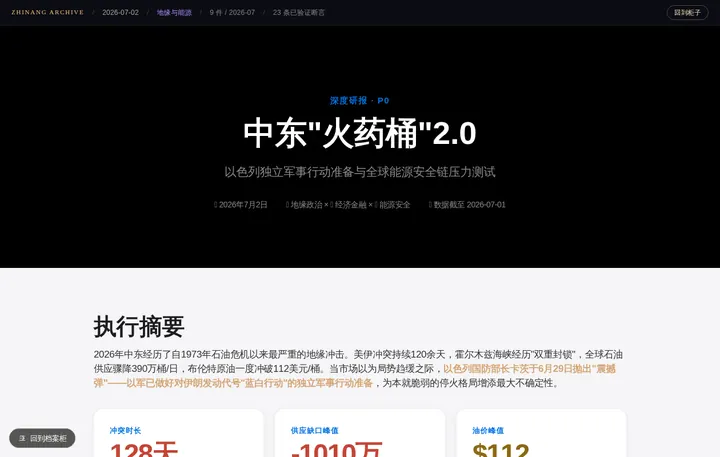
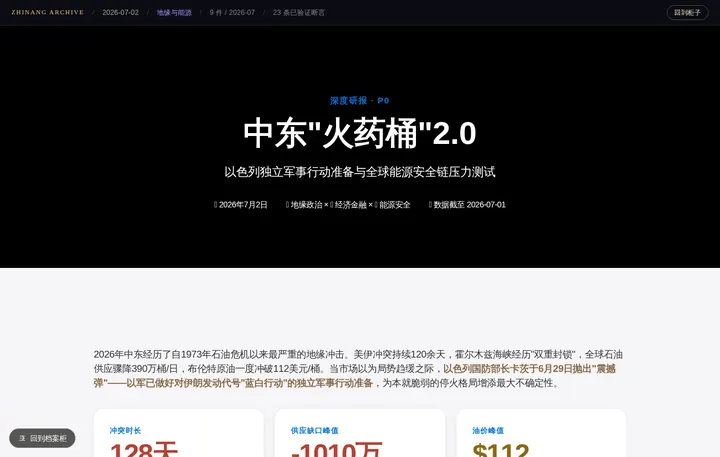
fix: 对比度修复工具的两个「把自己写坏」缺陷（均由棘轮当场抓到）
一、终局闸门形同虚设（最严重）
工具只在轮与轮之间比较，从不与**文件原始状态**比：
多轮各自「持平」，累加后落在比原始更差的终点。
实测 ai-agent-orchestration-wars 119 → 373 条（+254），另 6 件合计 +197。
处置：加「终局 vs 原始」闸门 —— 更差则整件回退。7 件已回退。

二、终局复验超时 ⇒ 闸门被跳过 ⇒ 坏状态直接落盘
大文件上 final detect 超时 → final=None → 闸门整段跳过 → 写盘。
棘轮随后抓到 low-contrast +23（middle-east-powder-keg-2）。
处置：① 复验拿不到结果就不许写盘（「没验过」不等于「通过」）
      ② 该件已回退，棘轮复验回到 4799 → 4799，无一规则上升。

三、改写策略：全局字面量替换 → 规则级定位
全局替换的根因：同一颜色常被用在多种背景上（浅底正文 + 深底强调），
全局改色会把另一半改坏。
处置：先按规则定位（只改「同规则内既有该文字色、又有匹配背景」的那些），
定位不到（背景在祖先规则里）再退回全局替换 —— 此时有终局闸门兜底。

四、本轮修复成果
- add_backlink.py 返回栏 .sb-cnt .44 → .48（4.36:1 → 5.01:1），
  经守护进程重新注入，一次修 208 件
- 9 件正文对比度（最差件 89 → 45 条 low-contrast）
- 基线：low-contrast 2961 → 2848；总量 4907 → 4799

验收：audit_pages 115 件 0 问题 · build_manifest --check 一致 ·
autopublish 十项硬校验全过 · 棘轮 ✓ 通过（无一规则上升）。

diff --git a/tools/fix_contrast.py b/tools/fix_contrast.py
@@ -119,7 +119,7 @@ def detect(path):
         return None
     cmd = [launcher, 'detect', path, '--json']
     try:
-        p = subprocess.run(cmd, cwd=ROOT, capture_output=True, text=True, timeout=600)
+        p = subprocess.run(cmd, cwd=ROOT, capture_output=True, text=True, timeout=900)
     except subprocess.TimeoutExpired:
         return None
     raw = p.stdout.strip()
@@ -191,7 +191,41 @@ def fix_white_rules(html, bg_hex, new_color):
     return RULE_RE.sub(do_block, html)
 
 
-def fix_one(path, dry=False, rounds=5):
+
+def _near(a, b):
+    """两个颜色是否足够接近（用来匹配同一背景色）。"""
+    try:
+        ca, cb = hex_to_rgb(a), hex_to_rgb(b)
+    except Exception:
+        return False
+    return sum(abs(x - y) for x, y in zip(ca, cb)) < 45
+
+
+def fix_rules_for_color(html, color, bg, new_color):
+    """**只改规则级**：在 <style> 内找「同一条规则里既声明了该文字色、又声明了
+    匹配背景色」的规则，改那一处的 color。
+
+    为什么不用全局字面量替换：同一颜色常被用在多种背景上（浅底上的正文 +
+    深底上的强调），全局改色会把另一半改坏 —— 实测 ai-agent-orchestration-wars
+    因此从 119 条涨到 373 条。规则级改写只碰「确实压在这个背景上」的那一条。
+    """
+    def do_block(m):
+        sel, body = m.group(1), m.group(2)
+        if not re.search(r'color\s*:\s*' + re.escape(color) + r'\b', body, re.I):
+            return m.group(0)
+        bgs = re.findall(r'background(?:-color)?\s*:\s*(#[0-9a-fA-F]{3,6})', body)
+        if not bgs or not any(_near(b, bg) for b in bgs):
+            return m.group(0)          # 背景不在本规则内 → 不动（宁可留残余）
+        nb = re.sub(r'(color\s*:\s*)' + re.escape(color),
+                    r'\g<1>' + new_color, body, count=1, flags=re.I)
+        return sel + '{' + nb + '}'
+
+    def do_style(m):
+        return m.group(0)[:m.group(0).index('>') + 1] + RULE_RE.sub(do_block, m.group(1)) + '</style>'
+
+    return re.sub(r'<style[^>]*>(.*?)</style>', do_style, html, flags=re.S)
+
+def fix_one(path, dry=False, rounds=3):
     full = os.path.join(ROOT, path)
     if not os.path.exists(full):
         return {'path': path, 'error': '文件不存在'}
@@ -244,12 +278,25 @@ def fix_one(path, dry=False, rounds=5):
             break
         changed = False
         for old, new in mapping.items():
-            if is_light(old):
-                continue                      # 白色/浅色文字走规则定位
+            # 逐个背景做规则级改写：一个颜色可能压多种背景，逐背景分别定位
+            hit = False
+            for bg in {x['bg'] for x in lcs if x['text'] == old}:
+                html2 = fix_rules_for_color(html, old, bg, new)
+                if html2 != html:
+                    html = html2
+                    hit = True
+            if hit:
+                applied.append({'from': old, 'to': new, 'count': 'rule-scoped',
+                                'round': rnd + 1})
+                changed = True
+                continue
+            # 规则级定位不到（背景在祖先规则里）→ 退回全局替换。
+            # 现在有「终局 vs 原始」闸门兜底：文件整体变差就整件回退，最坏是不改。
             html2, n = replace_literal(html, old, new)
             if n:
                 html = html2
-                applied.append({'from': old, 'to': new, 'count': n, 'round': rnd + 1})
+                applied.append({'from': old, 'to': new, 'count': n, 'round': rnd + 1,
+                                'mode': 'global(有终局闸门兜底)'})
                 changed = True
         # 白色文字：按规则定位（同规则内既有浅底又有白字）
         whites = [x for x in lcs if is_light(x['text'])]
@@ -284,7 +331,13 @@ def fix_one(path, dry=False, rounds=5):
     #    累加后落在比原始更差的终点（同一颜色被用在多种背景上，全局替换把另一半改坏了）。
     #    没有这道闸门，工具会把「改过」当成「改好」。
     final = detect(path)
-    if final is not None:
+    if final is None:
+        # ⚠ 终局复验拿不到结果（超时/不可用）→ **不许写盘**。
+        #    实测：大文件上 final detect 超时 → 闸门被跳过 → 坏状态直接落盘
+        #    （棘轮随后抓到 low-contrast +23）。「没验过」不等于「通过」。
+        applied.append({'rolled_back': True, 'reason': '终局复验超时/不可用，不写盘'})
+        html = orig
+    else:
         fin_lcs = low_contrast_findings(final)
         orig_findings = detect(path) if False else None
         orig_n = _orig_counts.get(path)

diff --git a/README.md b/README.md
@@ -104,6 +104,7 @@ cd /app/working/shared/showcase && ./tools/autopublish.sh
 | `autotag.py` | 自动补标签 |
 | `claim_gate.py` | **断言闸门**：三道机器闸门 + 存量回填（见五-D） |
 | `inject_contracts.py` | **作品契约注入**：把已过闸门的断言（`enrich.json`）与追踪线（`manifest.json`）搬进缺声明的作品 HTML —— 只搬运不发明，逐条仍受闸门校验；幂等，`--dry-run` 只算不写 |
+| `fix_contrast.py` | **对比度机械修复**：跑 detect 解析出「文字色/背景色/比值」，按规则定位改写 CSS 颜色（先规则级，定位不到再退回全局替换）；**终局闸门**：与文件原始状态比，更差则整件回退 |
 | `design_scan.py` | **设计质量棘轮**：全馆跑 `impeccable detect`，与 `tools/design_baseline.json` 比对，**任何规则条数上升即判回归**（退出码 1）；`--update-baseline` 在有意改善后收紧 |
 
 > ⚠ **「N 条已验证断言」的两个数不是一回事**（2026-11-03 起）
